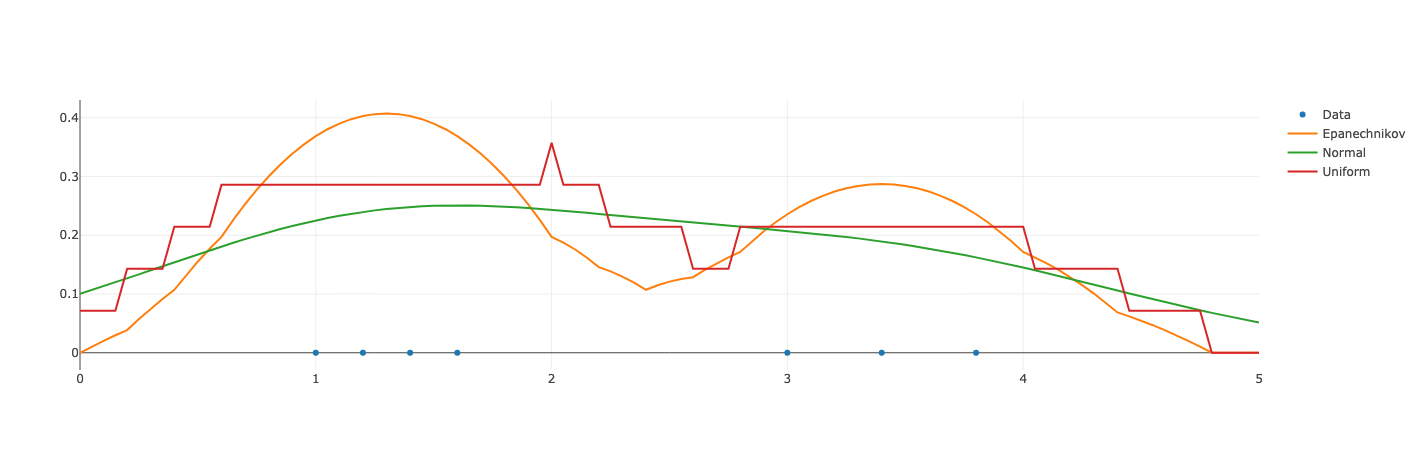
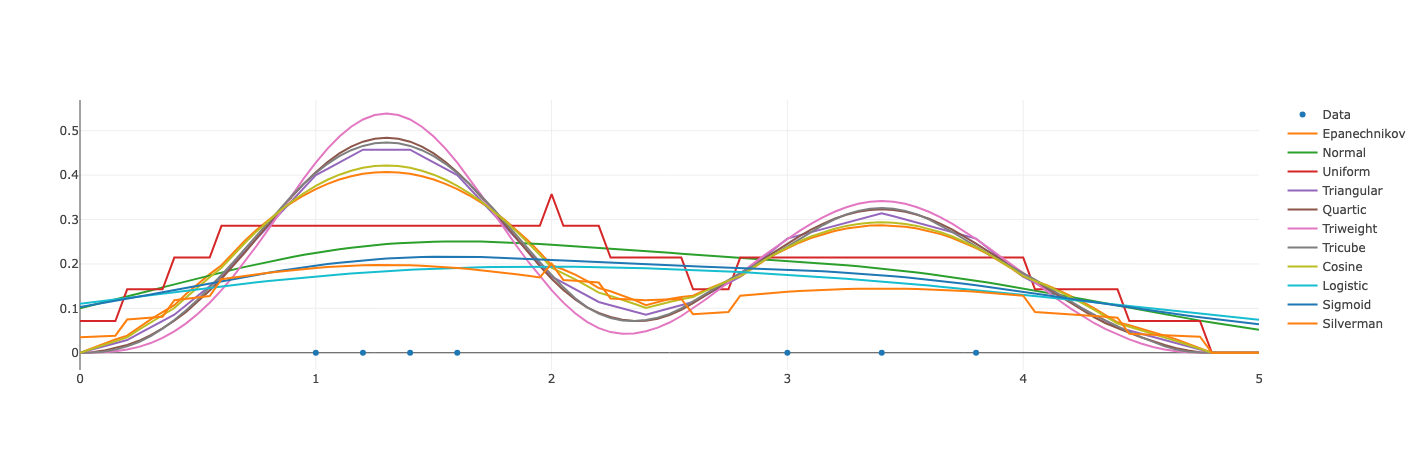
Fix SilvermanKernel issue in kernel example and update kernel.png figure

diff --git a/examples/kernel.rs b/examples/kernel.rs
@@ -25,7 +25,7 @@ fn main() {
     let kde8 = KernelDensityEstimator::new(observations.clone(), &bandwidth, Cosine);
     let kde9 = KernelDensityEstimator::new(observations.clone(), &bandwidth, Logistic);
     let kde10 = KernelDensityEstimator::new(observations.clone(), &bandwidth, Sigmoid);
-    //let kde11 = KernelDensityEstimator::new(observations.clone(), &bandwidth, Silverman);
+    let kde11 = KernelDensityEstimator::new(observations.clone(), &bandwidth, SilvermanKernel);
 
     // Create a grid of points to evaluate each KDE on.
     let dataset: Vec<f32> = (0..101)
@@ -55,8 +55,8 @@ fn main() {
     let y10 = kde9.pdf(&dataset);
     let x11 = dataset.clone();
     let y11 = kde10.pdf(&dataset);
-    //let x12 = dataset.clone();
-    //let y12 = kde11.pdf(&dataset);
+    let x12 = dataset.clone();
+    let y12 = kde11.pdf(&dataset);
 
     // Plot the observations and each of the PDFs.
     let trace1 = Scatter::new(x1, y1).mode(Mode::Markers).name("Data");
@@ -70,7 +70,7 @@ fn main() {
     let trace9 = Scatter::new(x9, y9).mode(Mode::Lines).name("Cosine");
     let trace10 = Scatter::new(x10, y10).mode(Mode::Lines).name("Logistic");
     let trace11 = Scatter::new(x11, y11).mode(Mode::Lines).name("Sigmoid");
-    //let trace12 = Scatter::new(x11, y11).mode(Mode::Lines).name("Silverman");
+    let trace12 = Scatter::new(x12, y12).mode(Mode::Lines).name("Silverman");
 
     // Render the plot.
     let mut plot = Plot::new();
@@ -85,6 +85,6 @@ fn main() {
     plot.add_trace(trace9);
     plot.add_trace(trace10);
     plot.add_trace(trace11);
-    //plot.add_trace(trace12);
+    plot.add_trace(trace12);
     plot.show();
 }
